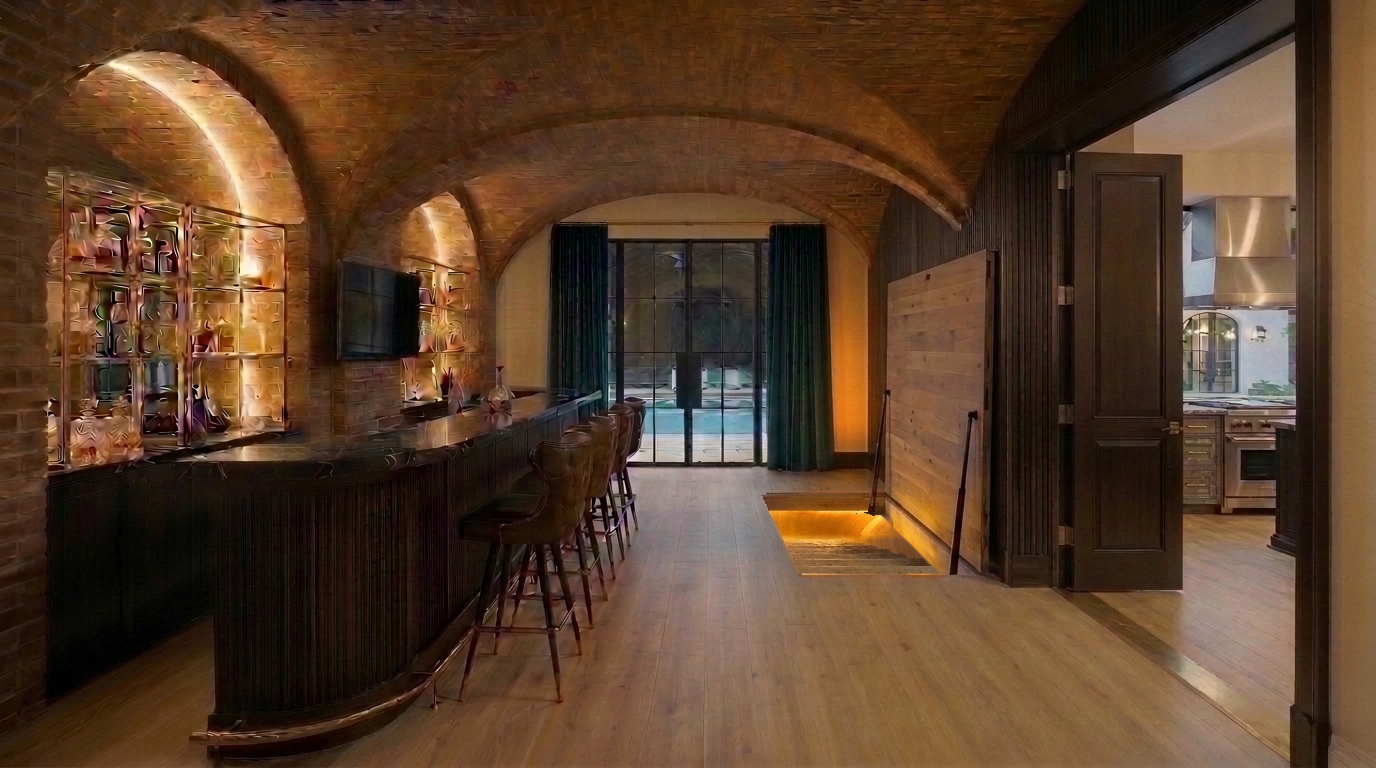
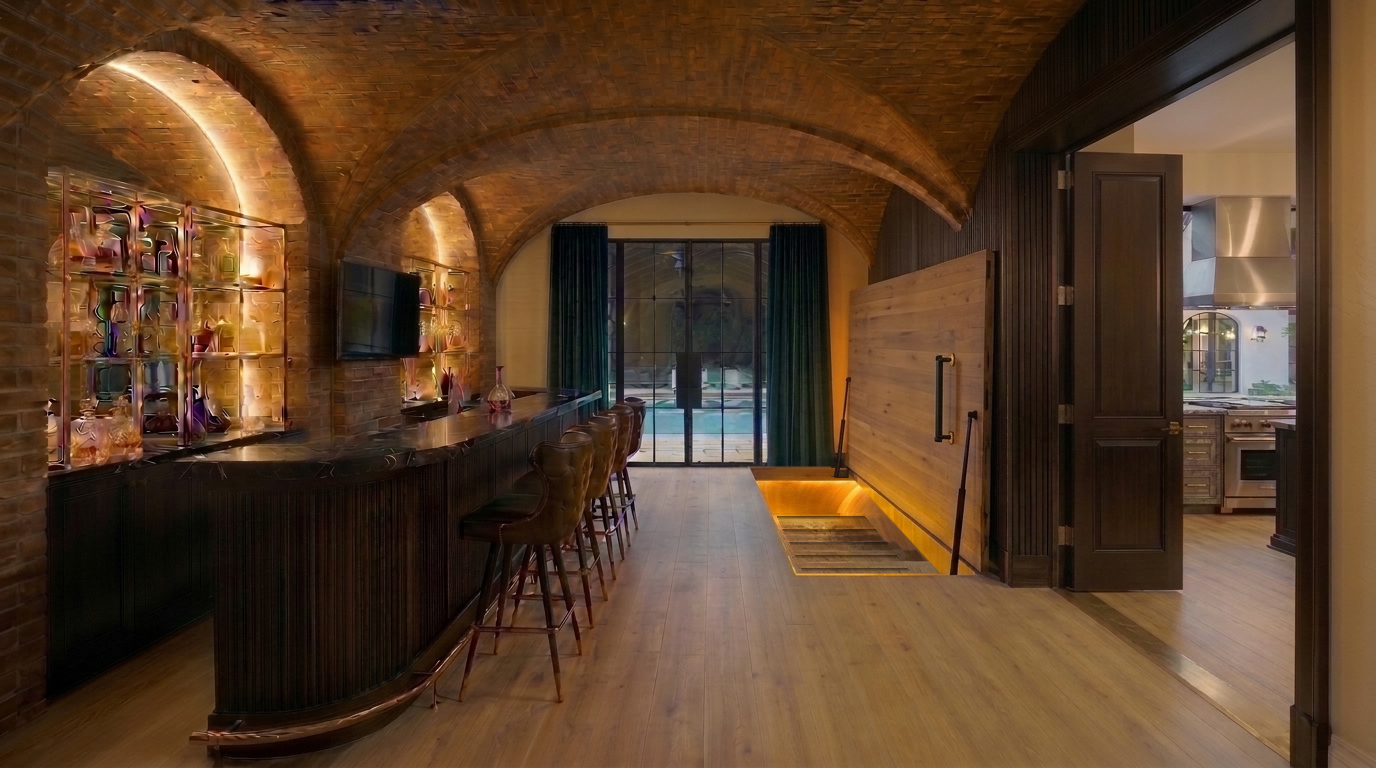
Extend Speakeasy opening & door towards pool window for comfortable headroom, make stairs steeper, and add handle on bottom of door

diff --git a/estate_interactive_lookbook_standalone.html b/estate_interactive_lookbook_standalone.html
@@ -1358,45 +1358,45 @@
         ]
       },
       {
-        src: "static/images/03a_speakeasy_back_corner_door_closed.jpg?v=3view02",
+        src: "static/images/03a_speakeasy_back_corner_door_closed.jpg?v=3view03",
         category: "level1",
-        zone: "Speakeasy (3A. Inside — Picture 1 of 3: Both Trap Door & Kitchen Cabinet Door CLOSED, 1:1 Aligned)",
-        badge: "Level 1 • Inside Narrow 12'×18' Speakeasy (Picture 1 of 3): Both Doors CLOSED — Trap Door Seam Flush With End of China Cabinet Opening & Back-Right Corner",
-        title: "Inside the Narrow 12' × 18' Speakeasy Bar (Picture 1 of 3 — Both Doors CLOSED) — Foreground-Right Kitchen Cabinet Hidden Door Closed Flush & Back-Right Corner Hydraulic Floor Trap Door Closed Down Flush (Exact 1:1 Alignment From End of China Cabinet Opening to Back Corner)",
-        dims: "12' Wide × 18' Long • Zero Safety Hazard • 1:1 Door-to-Opening Length Alignment",
-        desc: "The first of the 3 matched inside views of the 12' × 18' Speakeasy: both the foreground-right Kitchen Cabinet hidden door and the back-right corner hydraulic hardwood floor trap door are completely closed flush—presenting a continuous vertical fluted dark cherry / espresso mahogany right wall and a 100% flat, unbroken, walkable pale blonde white-oak floor. The closed trap door seam starts strictly flush with the end of the China Cabinet opening area and runs flush to the back-right corner so when closed or open, everything is 1:1 aligned.",
+        zone: "Speakeasy (3A. Inside — Picture 1 of 3: Both Trap Door & Kitchen Cabinet Door CLOSED, Extended 1:1 Length)",
+        badge: "Level 1 • Inside Narrow 12'×18' Speakeasy (Picture 1 of 3): Both Doors CLOSED — Extended Trap Door Seam From End of China Cabinet Opening to Pool Window",
+        title: "Inside the Narrow 12' × 18' Speakeasy Bar (Picture 1 of 3 — Both Doors CLOSED) — Foreground-Right Kitchen Cabinet Hidden Door Closed Flush & Extended Hydraulic Floor Trap Door Closed Down Flush (From End of China Cabinet Opening Towards the Pool Window)",
+        dims: "12' Wide × 18' Long • Zero Safety Hazard • Extended 1:1 Door-to-Opening Length Towards Pool Window",
+        desc: "The first of the 3 matched inside views of the 12' × 18' Speakeasy: both the foreground-right Kitchen Cabinet hidden door and the hydraulic hardwood floor trap door are completely closed flush—presenting a continuous vertical fluted dark cherry / espresso mahogany right wall and a 100% flat, unbroken, walkable pale blonde white-oak floor. The closed trap door seam starts strictly flush with the end of the China Cabinet opening area and extends further back towards the emerald-curtained window near the pool so when closed or open, everything is 1:1 aligned.",
         highlights: [
           "Kitchen Cabinet Hidden Door Closed Flush (Foreground-Right Wall): Completely conceals the kitchen entry inside the vertical fluted dark cherry / mahogany right wall for STC-55 acoustic privacy.",
-          "1:1 Aligned Floor Trap Door Seam (Flush With End of China Cabinet Opening to Back Corner): Starts right at the end of the China Cabinet doorway and ends flush against the back-right corner near the emerald velvet curtain and pool doors.",
+          "Extended 1:1 Aligned Floor Trap Door Seam (From End of China Cabinet Opening Towards Pool Window): Starts right at the end of the China Cabinet doorway and extends further back towards the emerald velvet curtain and pool doors for full stair headroom.",
           "100% Walkable 12' × 18' Speakeasy Lounge (Zero Safety Hazard): Preserves a completely solid, flat hardwood floor beside the honed Nero Marquina black marble bar and tufted leather barstools."
         ]
       },
       {
-        src: "static/images/03b_speakeasy_cabinet_open_trap_down.jpg?v=3view02",
+        src: "static/images/03b_speakeasy_cabinet_open_trap_down.jpg?v=3view03",
         category: "level1",
-        zone: "Speakeasy (3B. Inside — Picture 2 of 3: Kitchen Cabinet Door OPEN & Trap Door DOWN, Zero Safety Hazard)",
-        badge: "Level 1 • Inside Narrow 12'×18' Speakeasy (Picture 2 of 3): Kitchen Cabinet Hidden Door Fully OPEN Over 100% Solid Floor & Back-Right Trap Door DOWN",
-        title: "Inside the Narrow 12' × 18' Speakeasy Bar (Picture 2 of 3 — Kitchen Cabinet Door OPEN & Trap Door DOWN) — 100% Solid Uncut Entry Floor in Front of Open China Cabinet Doorway While Back-Right Corner Trap Door Remains Closed Down Flush",
-        dims: "12' Wide × 18' Long • 100% Solid Entry Way (Zero Safety Hazard) • Trap Door Flush From End of Cabinet Opening to Back Corner",
-        desc: "The second of the 3 matched inside views from the exact same camera angle: the foreground-right Kitchen Cabinet hidden door swings fully open to the Dark Cherry Kitchen over a 100% solid, uncut hardwood entry floor (eliminating any safety hazard in the doorway), while the hydraulic hardwood floor trap door remains closed down flat and flush starting right at the end of the China Cabinet opening area and running to the back-right corner.",
+        zone: "Speakeasy (3B. Inside — Picture 2 of 3: Kitchen Cabinet Door OPEN & Extended Trap Door DOWN)",
+        badge: "Level 1 • Inside Narrow 12'×18' Speakeasy (Picture 2 of 3): Kitchen Cabinet Hidden Door Fully OPEN Over 100% Solid Floor & Extended Trap Door DOWN",
+        title: "Inside the Narrow 12' × 18' Speakeasy Bar (Picture 2 of 3 — Kitchen Cabinet Door OPEN & Trap Door DOWN) — 100% Solid Uncut Entry Floor in Front of Open China Cabinet Doorway While the Extended Trap Door Remains Closed Down Flush",
+        dims: "12' Wide × 18' Long • 100% Solid Entry Way (Zero Safety Hazard) • Extended Trap Door Flush Towards Pool Window",
+        desc: "The second of the 3 matched inside views from the exact same camera angle: the foreground-right Kitchen Cabinet hidden door swings fully open to the Dark Cherry Kitchen over a 100% solid, uncut hardwood entry floor (eliminating any safety hazard in the doorway), while the hydraulic hardwood floor trap door remains closed down flat and flush starting right at the end of the China Cabinet opening area and extending back towards the window near the pool.",
         highlights: [
           "Zero Safety Hazard in the China Cabinet Entryway: 100% solid, flat pale-oak planks fill the entire foreground entry zone in front of the open China Cabinet door so no one stepping through from the kitchen ever encounters an open floor edge.",
-          "Back-Right Corner Trap Door Down (Flush From End of Doorway to Corner): Starts strictly flush with the far jamb of the China Cabinet opening and ends flush against the back-right corner.",
+          "Extended Trap Door Down (Flush From End of Doorway Towards Pool Window): Starts strictly flush with the far jamb of the China Cabinet opening and extends back towards the emerald velvet curtain near the pool.",
           "Seamless Transition Between Kitchen, Speakeasy & Pool Courtyard: Links the kitchen, bar, and rear pool terrace on a single level floor plane."
         ]
       },
       {
-        src: "static/images/03_speakeasy_cutaway.jpg?v=3view02",
+        src: "static/images/03_speakeasy_cutaway.jpg?v=3view03",
         category: "level1",
-        zone: "Speakeasy (3C. Inside — Picture 3 of 3: BOTH Doors OPEN, 1:1 Door-to-Opening Length & Stairs Going Towards Pool)",
-        badge: "Level 1 • Inside Narrow 12'×18' Speakeasy (Picture 3 of 3): BOTH Doors OPEN — Opening Flush With End of China Cabinet Area (Exact Same Length as Door) & Stairs Going Down TOWARDS THE POOL (-12')",
-        title: "Inside the Narrow 12' × 18' Speakeasy Bar (Picture 3 of 3 — BOTH Doors OPEN, Zero Safety Hazard) — Stairs Down Flush With the End of the China Cabinet Opening Area, Floor Opening Exact Same Size & Length as the 90° Lifted Door (Flush Against Back Corner) & Stone Stairs Descending Down TOWARDS THE POOL",
-        dims: "12' Wide × 18' Long • Exact 1:1 Door-to-Opening Size & Length • Flush With End of Cabinet Opening & Back Corner • Stairs Towards Pool (-12')",
-        desc: "The third of the 3 matched inside views showing both doors open simultaneously with zero safety hazards: the foreground floor in front of the open China Cabinet door is 100% solid, uncut hardwood planks. The stairs down and the floor opening start strictly flush with the end of the wall / China Cabinet opening area, the back end of the lifted 90° door sits flush against the back-right corner, and the gap of the floor opening is the exact same size and length as the door that opens—ensuring that whether closed or open, everything is 1:1 aligned. Inside the opening, the carved stone steps descend downward and forward TOWARDS THE POOL into the warmly lit subterranean wine cellar!",
+        zone: "Speakeasy (3C. Inside — Picture 3 of 3: BOTH Doors OPEN, Extended Towards Pool Window, Steeper Stairs for Headroom & Bottom Handle)",
+        badge: "Level 1 • Inside Narrow 12'×18' Speakeasy (Picture 3 of 3): BOTH Doors OPEN — Extended Opening & 90° Door Towards Pool Window, Steeper Stairs for Full Headroom & Handle on Bottom of Door",
+        title: "Inside the Narrow 12' × 18' Speakeasy Bar (Picture 3 of 3 — BOTH Doors OPEN) — Opening & 90° Door Extended Further Towards the Window Near the Pool (Flush With End of China Cabinet Area), Steeper Stone Stairs Descending Towards the Pool for Comfortable Headroom & Handle on the Bottom of the Door for Easy Opening From the Wine Cellar",
+        dims: "12' Wide × 18' Long • Extended Door & Opening Towards Pool Window • Steeper Stairs for Full Headroom • Handle on Bottom of Door",
+        desc: "The third of the 3 matched inside views showing both doors open simultaneously with comfortable headroom and zero safety hazards: the foreground floor in front of the open China Cabinet door is 100% solid, uncut hardwood planks. Starting strictly flush with the end of the China Cabinet opening area, both the floor opening and the 90° lifted wooden door extend further back towards the emerald-curtained window near the pool (matching 1:1 in size and length), and the carved stone stairs descend at a steeper angle towards the pool into a deep vertical golden-lit stairwell drop—giving plenty of headroom to walk up and down comfortably. Mounted on the bottom (underside) of the lifted wooden trap door is a heavy-duty matte-black & brushed-brass pull handle so you can easily open or close the door when walking up the stairs from the wine cellar!",
         highlights: [
-          "Zero Safety Hazard — Stairs Down Flush With the End of the China Cabinet Opening Area: The entire floor in front of the open China Cabinet doorway is 100% solid oak planks; the stairwell opening begins strictly flush with the far edge of the China Cabinet opening.",
-          "Gap of Opening Is the Exact Same Size & Length as the Door That Opens (Flush Against Back Corner): Held upright at 90° by twin black hydraulic struts with its rear edge flush against the back-right corner, the lifted wooden door matches the rectangular floor cutout 1:1 in length and width.",
-          "Stairs Descending Down TOWARDS THE POOL Into the Glowing Wine Cellar (-12'): Carved stone treads start at the near edge of the aligned opening and step downward and forward towards the back pool doors into warm 2700K golden cellar light."
+          "Extended Opening & 90° Door Towards the Window Near the Pool + Steeper Stairs for Comfortable Headroom: Starting flush with the end of the China Cabinet opening area, both the floor cutout and the 90° lifted door extend further back towards the pool window while the carved stone steps descend at a steeper pitch into a deep golden-lit stairwell shaft for generous headroom.",
+          "Handle on the Bottom (Underside) of the Door for Easy Opening From the Wine Cellar: A heavy-duty matte-black and brushed-brass bar handle is mounted on the underside face of the wooden trap door right over the stairs so anyone walking up from the wine cellar can easily grab and open/close the door.",
+          "Zero Safety Hazard & 1:1 Door-to-Opening Alignment: The entire floor in front of the open China Cabinet doorway remains 100% solid oak planks, and the gap of the opening matches the exact size and length of the extended door."
         ]
       },
       {
@@ -1991,14 +1991,14 @@
         ]
       },
       speakeasy: {
-        badge: "Level 1 • Narrow 12'×18' Secret Lounge • Zero Safety Hazard: 1:1 Door-to-Opening Length Flush With End of China Cabinet Area & Back Corner (3 Views)",
-        dims: "12' Wide × 18' Long • Opening Flush With End of China Cabinet Area • Exact Same Size & Length as 90° Door • Stairs Towards Pool (-12')",
-        title: "Hidden Speakeasy Bar (Zero Safety Hazard: Stairs Down Flush With the End of the China Cabinet Opening Area, Floor Opening Exact Same Size & Length as the 90° Lifted Door Flush Against Back Corner, and Stairs Going Towards the Pool — Shown Across 3 Pictures)",
-        desc: "Positioned directly behind the solid Kitchen range/oven wall at the Back of the Home (North) and entered through the secret built-in deep dark cherry / mahogany China Cabinet: inside the Speakeasy, the foreground floor in front of the kitchen doorway is 100% solid, uncut hardwood planks so there is zero safety hazard when stepping through. The stairs down and floor opening start strictly flush with the end of the wall / China Cabinet opening area, the back end of the door sits flush against the back-right corner, and the gap of the opening is the exact same size and length as the door that opens—ensuring that when closed or open, everything is 1:1 aligned. Shown across 3 matched pictures: (1) both doors closed; (2) Kitchen Cabinet door open and trap door down; and (3) both doors open simultaneously, with the trap door at 90° flush against the back-right corner dark wood wall and the stone stairs descending down towards the pool into the glowing -12' Wine Cellar.",
+        badge: "Level 1 • Narrow 12'×18' Secret Lounge • Extended Opening & 90° Door Towards Pool Window + Steeper Stairs for Headroom + Handle on Bottom of Door (3 Views)",
+        dims: "12' Wide × 18' Long • Extended Door & Opening Towards Pool Window • Steeper Stairs for Full Headroom • Bottom Door Handle",
+        title: "Hidden Speakeasy Bar (Extended Opening & 90° Door Towards the Window Near the Pool, Steeper Stone Stairs for Comfortable Headroom & Handle on the Bottom of the Door to Easily Open From the Wine Cellar — Shown Across 3 Pictures)",
+        desc: "Positioned directly behind the solid Kitchen range/oven wall at the Back of the Home (North) and entered through the secret built-in deep dark cherry / mahogany China Cabinet: inside the Speakeasy, the foreground floor in front of the kitchen doorway is 100% solid, uncut hardwood planks so there is zero safety hazard. Starting strictly flush with the end of the China Cabinet opening area, both the floor opening and the 90° lifted wooden door extend further back towards the emerald-curtained window near the pool (matching 1:1 in size and length), and the stone stairs descend at a steeper angle towards the pool into a deep golden-lit stairwell drop so people can walk up and down comfortably with generous headroom. Mounted on the bottom (underside) of the lifted trap door is a heavy-duty matte-black & brushed-brass pull handle to easily open or close the door when walking up the stairs from the wine cellar.",
         specs: [
-          "Zero Safety Hazard — Stairs Down Flush With the End of the China Cabinet Opening Area: The entire entry floor in front of the open China Cabinet doorway is 100% solid oak planks; the stairwell opening begins strictly flush with the far edge of the China Cabinet opening.",
-          "Exact 1:1 Door-to-Opening Size & Length Alignment (Flush Against Back Corner): Held upright at a 90° vertical angle flush against the back-right dark wood wall by twin matte-black hydraulic lift struts, the door's length and width match the floor opening 1:1 so everything aligns whether open or closed.",
-          "Stairs Inside the Trap Door Going Down TOWARDS THE POOL (Shown Across All 3 Operational States): Carved stone treads start at the near edge of the aligned opening and descend downward and forward towards the back pool doors into warm golden wine-cellar lights."
+          "Extended Opening & 90° Door Towards the Window Near the Pool + Steeper Stairs for Comfortable Headroom: Starting flush with the end of the China Cabinet opening area, the floor opening and 90° door extend further back towards the pool window while the carved stone steps descend more steeply towards the pool for generous headroom.",
+          "Handle on the Bottom (Underside) of the Door for Easy Opening From the Wine Cellar: Heavy-duty matte-black and brushed-brass bar handle mounted on the underside face of the wooden trap door right over the stairs so anyone walking up from the wine cellar can easily open or close the door.",
+          "Shown Across All 3 Operational States (1:1 Aligned in Size & Length): (1) Both doors closed; (2) Kitchen Cabinet door open and trap door down; and (3) Both doors open."
         ]
       },
       laundry: {

diff --git a/index.html b/index.html
@@ -1358,45 +1358,45 @@
         ]
       },
       {
-        src: "static/images/03a_speakeasy_back_corner_door_closed.jpg?v=3view02",
+        src: "static/images/03a_speakeasy_back_corner_door_closed.jpg?v=3view03",
         category: "level1",
-        zone: "Speakeasy (3A. Inside — Picture 1 of 3: Both Trap Door & Kitchen Cabinet Door CLOSED, 1:1 Aligned)",
-        badge: "Level 1 • Inside Narrow 12'×18' Speakeasy (Picture 1 of 3): Both Doors CLOSED — Trap Door Seam Flush With End of China Cabinet Opening & Back-Right Corner",
-        title: "Inside the Narrow 12' × 18' Speakeasy Bar (Picture 1 of 3 — Both Doors CLOSED) — Foreground-Right Kitchen Cabinet Hidden Door Closed Flush & Back-Right Corner Hydraulic Floor Trap Door Closed Down Flush (Exact 1:1 Alignment From End of China Cabinet Opening to Back Corner)",
-        dims: "12' Wide × 18' Long • Zero Safety Hazard • 1:1 Door-to-Opening Length Alignment",
-        desc: "The first of the 3 matched inside views of the 12' × 18' Speakeasy: both the foreground-right Kitchen Cabinet hidden door and the back-right corner hydraulic hardwood floor trap door are completely closed flush—presenting a continuous vertical fluted dark cherry / espresso mahogany right wall and a 100% flat, unbroken, walkable pale blonde white-oak floor. The closed trap door seam starts strictly flush with the end of the China Cabinet opening area and runs flush to the back-right corner so when closed or open, everything is 1:1 aligned.",
+        zone: "Speakeasy (3A. Inside — Picture 1 of 3: Both Trap Door & Kitchen Cabinet Door CLOSED, Extended 1:1 Length)",
+        badge: "Level 1 • Inside Narrow 12'×18' Speakeasy (Picture 1 of 3): Both Doors CLOSED — Extended Trap Door Seam From End of China Cabinet Opening to Pool Window",
+        title: "Inside the Narrow 12' × 18' Speakeasy Bar (Picture 1 of 3 — Both Doors CLOSED) — Foreground-Right Kitchen Cabinet Hidden Door Closed Flush & Extended Hydraulic Floor Trap Door Closed Down Flush (From End of China Cabinet Opening Towards the Pool Window)",
+        dims: "12' Wide × 18' Long • Zero Safety Hazard • Extended 1:1 Door-to-Opening Length Towards Pool Window",
+        desc: "The first of the 3 matched inside views of the 12' × 18' Speakeasy: both the foreground-right Kitchen Cabinet hidden door and the hydraulic hardwood floor trap door are completely closed flush—presenting a continuous vertical fluted dark cherry / espresso mahogany right wall and a 100% flat, unbroken, walkable pale blonde white-oak floor. The closed trap door seam starts strictly flush with the end of the China Cabinet opening area and extends further back towards the emerald-curtained window near the pool so when closed or open, everything is 1:1 aligned.",
         highlights: [
           "Kitchen Cabinet Hidden Door Closed Flush (Foreground-Right Wall): Completely conceals the kitchen entry inside the vertical fluted dark cherry / mahogany right wall for STC-55 acoustic privacy.",
-          "1:1 Aligned Floor Trap Door Seam (Flush With End of China Cabinet Opening to Back Corner): Starts right at the end of the China Cabinet doorway and ends flush against the back-right corner near the emerald velvet curtain and pool doors.",
+          "Extended 1:1 Aligned Floor Trap Door Seam (From End of China Cabinet Opening Towards Pool Window): Starts right at the end of the China Cabinet doorway and extends further back towards the emerald velvet curtain and pool doors for full stair headroom.",
           "100% Walkable 12' × 18' Speakeasy Lounge (Zero Safety Hazard): Preserves a completely solid, flat hardwood floor beside the honed Nero Marquina black marble bar and tufted leather barstools."
         ]
       },
       {
-        src: "static/images/03b_speakeasy_cabinet_open_trap_down.jpg?v=3view02",
+        src: "static/images/03b_speakeasy_cabinet_open_trap_down.jpg?v=3view03",
         category: "level1",
-        zone: "Speakeasy (3B. Inside — Picture 2 of 3: Kitchen Cabinet Door OPEN & Trap Door DOWN, Zero Safety Hazard)",
-        badge: "Level 1 • Inside Narrow 12'×18' Speakeasy (Picture 2 of 3): Kitchen Cabinet Hidden Door Fully OPEN Over 100% Solid Floor & Back-Right Trap Door DOWN",
-        title: "Inside the Narrow 12' × 18' Speakeasy Bar (Picture 2 of 3 — Kitchen Cabinet Door OPEN & Trap Door DOWN) — 100% Solid Uncut Entry Floor in Front of Open China Cabinet Doorway While Back-Right Corner Trap Door Remains Closed Down Flush",
-        dims: "12' Wide × 18' Long • 100% Solid Entry Way (Zero Safety Hazard) • Trap Door Flush From End of Cabinet Opening to Back Corner",
-        desc: "The second of the 3 matched inside views from the exact same camera angle: the foreground-right Kitchen Cabinet hidden door swings fully open to the Dark Cherry Kitchen over a 100% solid, uncut hardwood entry floor (eliminating any safety hazard in the doorway), while the hydraulic hardwood floor trap door remains closed down flat and flush starting right at the end of the China Cabinet opening area and running to the back-right corner.",
+        zone: "Speakeasy (3B. Inside — Picture 2 of 3: Kitchen Cabinet Door OPEN & Extended Trap Door DOWN)",
+        badge: "Level 1 • Inside Narrow 12'×18' Speakeasy (Picture 2 of 3): Kitchen Cabinet Hidden Door Fully OPEN Over 100% Solid Floor & Extended Trap Door DOWN",
+        title: "Inside the Narrow 12' × 18' Speakeasy Bar (Picture 2 of 3 — Kitchen Cabinet Door OPEN & Trap Door DOWN) — 100% Solid Uncut Entry Floor in Front of Open China Cabinet Doorway While the Extended Trap Door Remains Closed Down Flush",
+        dims: "12' Wide × 18' Long • 100% Solid Entry Way (Zero Safety Hazard) • Extended Trap Door Flush Towards Pool Window",
+        desc: "The second of the 3 matched inside views from the exact same camera angle: the foreground-right Kitchen Cabinet hidden door swings fully open to the Dark Cherry Kitchen over a 100% solid, uncut hardwood entry floor (eliminating any safety hazard in the doorway), while the hydraulic hardwood floor trap door remains closed down flat and flush starting right at the end of the China Cabinet opening area and extending back towards the window near the pool.",
         highlights: [
           "Zero Safety Hazard in the China Cabinet Entryway: 100% solid, flat pale-oak planks fill the entire foreground entry zone in front of the open China Cabinet door so no one stepping through from the kitchen ever encounters an open floor edge.",
-          "Back-Right Corner Trap Door Down (Flush From End of Doorway to Corner): Starts strictly flush with the far jamb of the China Cabinet opening and ends flush against the back-right corner.",
+          "Extended Trap Door Down (Flush From End of Doorway Towards Pool Window): Starts strictly flush with the far jamb of the China Cabinet opening and extends back towards the emerald velvet curtain near the pool.",
           "Seamless Transition Between Kitchen, Speakeasy & Pool Courtyard: Links the kitchen, bar, and rear pool terrace on a single level floor plane."
         ]
       },
       {
-        src: "static/images/03_speakeasy_cutaway.jpg?v=3view02",
+        src: "static/images/03_speakeasy_cutaway.jpg?v=3view03",
         category: "level1",
-        zone: "Speakeasy (3C. Inside — Picture 3 of 3: BOTH Doors OPEN, 1:1 Door-to-Opening Length & Stairs Going Towards Pool)",
-        badge: "Level 1 • Inside Narrow 12'×18' Speakeasy (Picture 3 of 3): BOTH Doors OPEN — Opening Flush With End of China Cabinet Area (Exact Same Length as Door) & Stairs Going Down TOWARDS THE POOL (-12')",
-        title: "Inside the Narrow 12' × 18' Speakeasy Bar (Picture 3 of 3 — BOTH Doors OPEN, Zero Safety Hazard) — Stairs Down Flush With the End of the China Cabinet Opening Area, Floor Opening Exact Same Size & Length as the 90° Lifted Door (Flush Against Back Corner) & Stone Stairs Descending Down TOWARDS THE POOL",
-        dims: "12' Wide × 18' Long • Exact 1:1 Door-to-Opening Size & Length • Flush With End of Cabinet Opening & Back Corner • Stairs Towards Pool (-12')",
-        desc: "The third of the 3 matched inside views showing both doors open simultaneously with zero safety hazards: the foreground floor in front of the open China Cabinet door is 100% solid, uncut hardwood planks. The stairs down and the floor opening start strictly flush with the end of the wall / China Cabinet opening area, the back end of the lifted 90° door sits flush against the back-right corner, and the gap of the floor opening is the exact same size and length as the door that opens—ensuring that whether closed or open, everything is 1:1 aligned. Inside the opening, the carved stone steps descend downward and forward TOWARDS THE POOL into the warmly lit subterranean wine cellar!",
+        zone: "Speakeasy (3C. Inside — Picture 3 of 3: BOTH Doors OPEN, Extended Towards Pool Window, Steeper Stairs for Headroom & Bottom Handle)",
+        badge: "Level 1 • Inside Narrow 12'×18' Speakeasy (Picture 3 of 3): BOTH Doors OPEN — Extended Opening & 90° Door Towards Pool Window, Steeper Stairs for Full Headroom & Handle on Bottom of Door",
+        title: "Inside the Narrow 12' × 18' Speakeasy Bar (Picture 3 of 3 — BOTH Doors OPEN) — Opening & 90° Door Extended Further Towards the Window Near the Pool (Flush With End of China Cabinet Area), Steeper Stone Stairs Descending Towards the Pool for Comfortable Headroom & Handle on the Bottom of the Door for Easy Opening From the Wine Cellar",
+        dims: "12' Wide × 18' Long • Extended Door & Opening Towards Pool Window • Steeper Stairs for Full Headroom • Handle on Bottom of Door",
+        desc: "The third of the 3 matched inside views showing both doors open simultaneously with comfortable headroom and zero safety hazards: the foreground floor in front of the open China Cabinet door is 100% solid, uncut hardwood planks. Starting strictly flush with the end of the China Cabinet opening area, both the floor opening and the 90° lifted wooden door extend further back towards the emerald-curtained window near the pool (matching 1:1 in size and length), and the carved stone stairs descend at a steeper angle towards the pool into a deep vertical golden-lit stairwell drop—giving plenty of headroom to walk up and down comfortably. Mounted on the bottom (underside) of the lifted wooden trap door is a heavy-duty matte-black & brushed-brass pull handle so you can easily open or close the door when walking up the stairs from the wine cellar!",
         highlights: [
-          "Zero Safety Hazard — Stairs Down Flush With the End of the China Cabinet Opening Area: The entire floor in front of the open China Cabinet doorway is 100% solid oak planks; the stairwell opening begins strictly flush with the far edge of the China Cabinet opening.",
-          "Gap of Opening Is the Exact Same Size & Length as the Door That Opens (Flush Against Back Corner): Held upright at 90° by twin black hydraulic struts with its rear edge flush against the back-right corner, the lifted wooden door matches the rectangular floor cutout 1:1 in length and width.",
-          "Stairs Descending Down TOWARDS THE POOL Into the Glowing Wine Cellar (-12'): Carved stone treads start at the near edge of the aligned opening and step downward and forward towards the back pool doors into warm 2700K golden cellar light."
+          "Extended Opening & 90° Door Towards the Window Near the Pool + Steeper Stairs for Comfortable Headroom: Starting flush with the end of the China Cabinet opening area, both the floor cutout and the 90° lifted door extend further back towards the pool window while the carved stone steps descend at a steeper pitch into a deep golden-lit stairwell shaft for generous headroom.",
+          "Handle on the Bottom (Underside) of the Door for Easy Opening From the Wine Cellar: A heavy-duty matte-black and brushed-brass bar handle is mounted on the underside face of the wooden trap door right over the stairs so anyone walking up from the wine cellar can easily grab and open/close the door.",
+          "Zero Safety Hazard & 1:1 Door-to-Opening Alignment: The entire floor in front of the open China Cabinet doorway remains 100% solid oak planks, and the gap of the opening matches the exact size and length of the extended door."
         ]
       },
       {
@@ -1991,14 +1991,14 @@
         ]
       },
       speakeasy: {
-        badge: "Level 1 • Narrow 12'×18' Secret Lounge • Zero Safety Hazard: 1:1 Door-to-Opening Length Flush With End of China Cabinet Area & Back Corner (3 Views)",
-        dims: "12' Wide × 18' Long • Opening Flush With End of China Cabinet Area • Exact Same Size & Length as 90° Door • Stairs Towards Pool (-12')",
-        title: "Hidden Speakeasy Bar (Zero Safety Hazard: Stairs Down Flush With the End of the China Cabinet Opening Area, Floor Opening Exact Same Size & Length as the 90° Lifted Door Flush Against Back Corner, and Stairs Going Towards the Pool — Shown Across 3 Pictures)",
-        desc: "Positioned directly behind the solid Kitchen range/oven wall at the Back of the Home (North) and entered through the secret built-in deep dark cherry / mahogany China Cabinet: inside the Speakeasy, the foreground floor in front of the kitchen doorway is 100% solid, uncut hardwood planks so there is zero safety hazard when stepping through. The stairs down and floor opening start strictly flush with the end of the wall / China Cabinet opening area, the back end of the door sits flush against the back-right corner, and the gap of the opening is the exact same size and length as the door that opens—ensuring that when closed or open, everything is 1:1 aligned. Shown across 3 matched pictures: (1) both doors closed; (2) Kitchen Cabinet door open and trap door down; and (3) both doors open simultaneously, with the trap door at 90° flush against the back-right corner dark wood wall and the stone stairs descending down towards the pool into the glowing -12' Wine Cellar.",
+        badge: "Level 1 • Narrow 12'×18' Secret Lounge • Extended Opening & 90° Door Towards Pool Window + Steeper Stairs for Headroom + Handle on Bottom of Door (3 Views)",
+        dims: "12' Wide × 18' Long • Extended Door & Opening Towards Pool Window • Steeper Stairs for Full Headroom • Bottom Door Handle",
+        title: "Hidden Speakeasy Bar (Extended Opening & 90° Door Towards the Window Near the Pool, Steeper Stone Stairs for Comfortable Headroom & Handle on the Bottom of the Door to Easily Open From the Wine Cellar — Shown Across 3 Pictures)",
+        desc: "Positioned directly behind the solid Kitchen range/oven wall at the Back of the Home (North) and entered through the secret built-in deep dark cherry / mahogany China Cabinet: inside the Speakeasy, the foreground floor in front of the kitchen doorway is 100% solid, uncut hardwood planks so there is zero safety hazard. Starting strictly flush with the end of the China Cabinet opening area, both the floor opening and the 90° lifted wooden door extend further back towards the emerald-curtained window near the pool (matching 1:1 in size and length), and the stone stairs descend at a steeper angle towards the pool into a deep golden-lit stairwell drop so people can walk up and down comfortably with generous headroom. Mounted on the bottom (underside) of the lifted trap door is a heavy-duty matte-black & brushed-brass pull handle to easily open or close the door when walking up the stairs from the wine cellar.",
         specs: [
-          "Zero Safety Hazard — Stairs Down Flush With the End of the China Cabinet Opening Area: The entire entry floor in front of the open China Cabinet doorway is 100% solid oak planks; the stairwell opening begins strictly flush with the far edge of the China Cabinet opening.",
-          "Exact 1:1 Door-to-Opening Size & Length Alignment (Flush Against Back Corner): Held upright at a 90° vertical angle flush against the back-right dark wood wall by twin matte-black hydraulic lift struts, the door's length and width match the floor opening 1:1 so everything aligns whether open or closed.",
-          "Stairs Inside the Trap Door Going Down TOWARDS THE POOL (Shown Across All 3 Operational States): Carved stone treads start at the near edge of the aligned opening and descend downward and forward towards the back pool doors into warm golden wine-cellar lights."
+          "Extended Opening & 90° Door Towards the Window Near the Pool + Steeper Stairs for Comfortable Headroom: Starting flush with the end of the China Cabinet opening area, the floor opening and 90° door extend further back towards the pool window while the carved stone steps descend more steeply towards the pool for generous headroom.",
+          "Handle on the Bottom (Underside) of the Door for Easy Opening From the Wine Cellar: Heavy-duty matte-black and brushed-brass bar handle mounted on the underside face of the wooden trap door right over the stairs so anyone walking up from the wine cellar can easily open or close the door.",
+          "Shown Across All 3 Operational States (1:1 Aligned in Size & Length): (1) Both doors closed; (2) Kitchen Cabinet door open and trap door down; and (3) Both doors open."
         ]
       },
       laundry: {

diff --git a/docs/main_home_interior_design_concept.md b/docs/main_home_interior_design_concept.md
@@ -103,16 +103,16 @@ flowchart TB
 ### View C2 (INSIDE THE NARROW `12' × 18'` SPEAKEASY — Picture 2 of 3: Kitchen Cabinet Hidden Door Fully OPEN and the Back-Right Corner Speakeasy Trap Door DOWN)
 ![Inside the Narrow 12' × 18' Speakeasy (Picture 2 of 3 — Kitchen Cabinet Door Open & Trap Door Down): Exact Same View with the Foreground-Right Kitchen Cabinet Hidden Door Fully Open to the Kitchen and Pool Patio, While the Hydraulic Wood-Plank Trap Door Tucked Flush Against the Back-Right Corner Remains Closed Down Flat in the Floor—Demonstrating Full Door-Swing Clearance and a 100% Clear Entry Way](/home/brianvinson/.gemini/jetski/brain/96883fd9-49e4-474d-86a1-0423e4655f3f/speakeasy_back_corner_cabinet_open_trap_down.jpg)
 
-### View C3 (INSIDE THE NARROW `12' × 18'` SPEAKEASY — Picture 3 of 3: BOTH Doors OPEN — Kitchen Cabinet Hidden Door Fully Open + Back-Right Corner Trap Door Lifted Up at 90° Flush Against the Corner, with the Opening Gap the Exact Same Size & Length as the Door and Stairs Going Down TOWARDS THE POOL)
-![Inside the Narrow 12' × 18' Speakeasy (Picture 3 of 3 — Both Doors Open with Exact 1:1 Door-to-Opening Length & Stairs Going Towards the Pool): Exact Same View with the Foreground-Right Kitchen Cabinet Hidden Door Fully Open AND the Back-Right Corner Wood-Plank Floor Trap Door Lifted Up on Twin Matte-Black Hydraulic Lift Struts to Sit at a 90-Degree Angle Flush Against the Back-Right Corner Dark Wood Wall, Where the Gap of the Floor Opening Starts Strictly Flush With the End of the China Cabinet Opening Area and Matches the Exact Size and Length of the Lifted Door (Zero Safety Hazard in Front of the Doorway), Revealing the Carved Stone Stairs Descending Down Towards the Pool Into the Warm Golden-Lit Subterranean Wine Cellar Below](/home/brianvinson/.gemini/jetski/brain/96883fd9-49e4-474d-86a1-0423e4655f3f/speakeasy_back_corner_both_doors_open.jpg)
+### View C3 (INSIDE THE NARROW `12' × 18'` SPEAKEASY — Picture 3 of 3: BOTH Doors OPEN — Kitchen Cabinet Hidden Door Fully Open + Extended 90° Trap Door With Bottom/Underside Handle + Extended Opening Towards the Pool Window + Steeper Stone Stairs Descending TOWARDS THE POOL With Full Headroom)
+![Inside the Narrow 12' × 18' Speakeasy (Picture 3 of 3 — Both Doors Open with Extended Opening & Door Towards the Pool Window, Steeper Stairs for Full Headroom & Handle on Bottom of Door): Exact Same View with the Foreground-Right Kitchen Cabinet Hidden Door Fully Open AND the Wood-Plank Floor Trap Door (Along With the Matching Rectangular Floor Opening) Extended Further Back Towards the Window Near the Pool, Lifted Up at a 90-Degree Angle on Twin Matte-Black Hydraulic Lift Struts With a Heavy-Duty Matte-Black & Brass Handle Mounted on the Bottom (Underside) of the Door to Easily Open/Close It When Walking Up From the Wine Cellar, and Steeper Carved Stone Stairs Starting Flush With the End of the China Cabinet Opening Area and Descending Towards the Pool With Generous Headroom](/home/brianvinson/.gemini/jetski/brain/96883fd9-49e4-474d-86a1-0423e4655f3f/speakeasy_back_corner_both_doors_open.jpg)
 
-- **Why This 3-State Narrow `12' × 18'` Speakeasy Layout (Exact 1:1 Door-to-Opening Alignment Flush With the End of the China Cabinet Opening & Back-Right Corner + Stairs Going Towards the Pool) Eliminates Safety Hazards and Works Seamlessly:**
-  1. **Zero Safety Hazard — Stairs Down Flush With the End of the China Cabinet Opening & Gap the Exact Same Size and Length as the Lifted Door (`Views C1, C2 & C3`):** The far end of the hydraulic hardwood floor trap door sits **flush against the back-right corner**, and its near end sits **flush with the end of the wall / china cabinet opening area**. When the trap door lifts open (`View C3`), the **gap of the floor opening is the exact same size, width, and length as the door that opens**—ensuring 100% solid, uncut wide-plank oak flooring across the entire china cabinet doorway (zero open pit in front of the door) and ensuring that whether the trap door is closed (`Views C1 & C2`) or open (`View C3`), everything is 1:1 aligned.
-  2. **Stairs Inside the Trap Door Descending Down TOWARDS THE POOL (`View C3`):** When the hydraulic floor trap door lifts up on **twin heavy-duty matte-black hydraulic lift struts** to sit at a **90-degree vertical angle (`90°`) flush against the dark wood wall in the back-right corner**, the top step starts flush at the near edge of the opening (at the end of the china cabinet opening area) and the carved stone stairs descend **downward and forward towards the pool (north)**, bathed in the **warm golden-amber lights shining up from the `-12'` Wine Cellar & Bourbon Distillery Tunnel** at the deep pool end of the stairwell.
-  3. **3 Complete Operational Modes Shown Side-by-Side:**
-     - **Picture 1 (`View C1` — Both Doors Closed):** Both the foreground-right Kitchen Cabinet door and the back-right corner floor trap door are closed flush, creating a completely sealed, soundproofed (`STC-55`) private speakeasy with 100% walkable floor space.
-     - **Picture 2 (`View C2` — Kitchen Cabinet Door Open, Trap Door Down):** The foreground-right Kitchen Cabinet door is swung fully open while the back-right corner trap door remains closed down flat in the floor, providing an unbroken hardwood walkway from the kitchen all the way to the rear pool doors.
-     - **Picture 3 (`View C3` — Both Doors Open):** Both the foreground-right Kitchen Cabinet door and the `90°` hydraulic floor trap door in the back-right corner are open at the same time, with the floor opening matching the exact size and length of the lifted door, a 100% safe and clear entryway from the kitchen, and direct stair descent towards the pool into the glowing wine cellar below.
+- **Why This 3-State Narrow `12' × 18'` Speakeasy Layout (Extended Door & Floor Opening Towards the Pool Window + Steeper Stairs for Full Headroom + Bottom/Underside Door Handle + Zero Safety Hazard) Works Seamlessly:**
+  1. **Extended Floor Opening & 90° Door Towards the Pool Window + Steeper Stairs for Full Headroom (`Views C1, C2 & C3`):** While the near edge of the stairwell and door remains **strictly flush with the end of the wall / China Cabinet opening area** (keeping 100% solid, uncut oak flooring across the doorway with zero safety hazard), both the **floor opening and the lifted 90° wooden trap door extend further back towards the emerald-curtained window near the pool**, and the carved stone stairs descend at a **steeper pitch** towards the pool—creating a deep vertical golden-lit stairwell drop at the far pool end so even at `6'8"` you can walk down and up with abundant headroom.
+  2. **Heavy-Duty Handle on the Bottom (Underside) of the Trap Door (`View C3`):** Mounted directly on the **bottom (underside face) of the wooden trap door** is a heavy-duty **matte-black and brushed-brass pull/push bar handle** positioned right over the stairs so that when you are walking up the stairs from the wine cellar, you can easily reach up to open or close the door.
+  3. **3 Complete Operational Modes Shown Side-by-Side (1:1 Aligned in Length):**
+     - **Picture 1 (`View C1` — Both Doors Closed):** Both the foreground-right Kitchen Cabinet door and the extended floor trap door are closed flush, creating a completely sealed, soundproofed (`STC-55`) private speakeasy with 100% walkable floor space.
+     - **Picture 2 (`View C2` — Kitchen Cabinet Door Open, Trap Door Down):** The foreground-right Kitchen Cabinet door is swung fully open while the extended trap door remains closed down flat in the floor, providing an unbroken hardwood walkway from the kitchen all the way to the rear pool doors.
+     - **Picture 3 (`View C3` — Both Doors Open):** Both the foreground-right Kitchen Cabinet door and the extended `90°` hydraulic floor trap door (with its underside handle and twin black hydraulic struts) are open simultaneously, revealing the steeper stone stairs descending towards the pool into the glowing wine cellar below.
 
 ---
 

diff --git a/docs/estate_specifications_and_outbuildings.md b/docs/estate_specifications_and_outbuildings.md
@@ -158,7 +158,7 @@ flowchart TB
 - **How the Secret Dark Cherry / Mahogany China Cabinet Door, Narrow `12' × 18'` Speakeasy & 90° Hydraulic Lift-Up Floor Hatch Door Work Together:**
   - **Positioned at the Back of the Home Right Next to the Pool Doors:** Built flush at the north (back) end of the kitchen cabinetry wall immediately beside the **Kitchen's tall black-steel mullioned back door overlooking the Resort Swimming Pool and Two-Story Wellness Center**, the floor-to-ceiling **rich dark cherry / mahogany China Cabinet** features mullioned glass doors, warm 2700K vertical LED shelf strips, and museum-grade clear acrylic/silicone gallery rail lips & micro-suction pads so every porcelain plate, bowl, tureen, and crystal stem stays 100% secure while the cabinet swings.
   - **Outward Swing Towards the Kitchen Area:** Engineered on a **Ritson/FritsJurgens heavy-duty concealed structural pivot system (rated to 1,100 lbs)** and concealed SOSS hinges on the jamb away from the pool, releasing the hidden magnetic latch allows the entire dark cherry / mahogany China Cabinet to swing smoothly **outward towards the kitchen island**.
-  - **Flush Back-Right Corner Hydraulic Wood-Plank Trap Door + Stairs Going Towards the Pool (`Views C1, C2 & C3`):** Inside the Speakeasy (`12' × 18'`), the hydraulic wood-plank floor trap door is positioned **flush against the back-right corner** (past the foreground-right doorway to the kitchen) so that the **hidden door from the bar/kitchen can fully open** with zero interference. When lifted up on **twin matte-black hydraulic lift struts**, the trap door sits vertically at a **90-degree angle (`90°`) flush against the back-right corner dark wood wall**, and the stone stairs inside the opening descend **downward and forward towards the pool (north)** into the warmly illuminated `-12'` Wine Cellar & Bourbon Distillery Tunnel—shown across **3 matched views**: (`View C1`) both doors closed, (`View C2`) kitchen cabinet door open and trap door down, and (`View C3`) both doors open.
+  - **Extended 90° Hydraulic Wood-Plank Trap Door (With Bottom/Underside Handle) + Extended Floor Opening Towards the Pool Window + Steeper Stairs for Full Headroom (`Views C1, C2 & C3`):** Inside the Speakeasy (`12' × 18'`), the near edge of the hydraulic wood-plank floor trap door and stairwell opening sits **strictly flush with the end of the China Cabinet opening area** (keeping 100% solid floor in front of the kitchen doorway), while the far end of both the **floor opening and the 90° lifted wooden door extends further back towards the emerald-curtained window near the pool** (matching 1:1 in size and length). Inside the extended opening, **steeper carved stone stairs** descend downward and forward **towards the pool (north)** into a deep vertical golden-lit stairwell drop so a tall person (`6'8"`) has generous headroom walking down and up. Mounted on the **bottom (underside face) of the wooden trap door** is a heavy-duty **matte-black & brushed-brass pull/push handle** so you can easily open or close the door when walking up the stairs from the wine cellar.
   - **Acoustic & Smoke Isolation:** The cabinet perimeter incorporates **Pemko acoustic compression seals** and an automatic mortised drop-bottom seal (`STC-55`), keeping the speakeasy completely soundproofed when closed.
 
 ---
